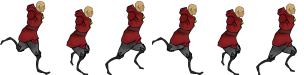
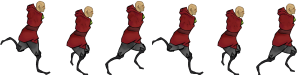
Atualizando correcao do braco pra esquerda

diff --git a/GameEngineSolution/GameEngine/Player.cpp b/GameEngineSolution/GameEngine/Player.cpp
@@ -93,24 +93,38 @@ void Player::Update(float dt) {
 
 void Player::Render() {
 	auto& input = InputManager::GetInstance();
+	Vec2 renderPosition;
+	auto centerPosition = box.GetCenter();
 	if (currentLayer == 0) {
 		if (input.IsKeyDown(SDLK_d) || input.IsKeyDown(SDLK_a)) {
 			UpdateSP(bodyRunSP);
+			UpdateConcertaArm(20,26,20);
 		} else {
 			UpdateSP(bodySP);
+			UpdateConcertaArm(40, 28,-5);
 		}
+		actualSP.Render(box.GetWorldRenderPosition(), 0, movedLeft, Camera::Zoom); 
+		printf("%f \n", cannonAngle);
+		renderPosition.X = centerPosition.X -concertaX-concertaLeft - Camera::pos.X;
+		renderPosition.Y = centerPosition.Y -concertaY - Camera::pos.Y;
+		armSp.Render(renderPosition, cannonAngle, false, Camera::Zoom);
+		
 	}
 	if (currentLayer == 1) {
 		UpdateSP(bodySP);
+		actualSP.Render(box.GetWorldRenderPosition(), 0, movedLeft, Camera::Zoom);
 	}
-	actualSP.Render(box.GetWorldRenderPosition(), 0, movedLeft, Camera::Zoom);
-	auto centerPosition = box.GetCenter();
+	
 
-	Vec2 renderPosition;
-	renderPosition.X = centerPosition.X - armSp.GetWidth()/1.8  - Camera::pos.X;
-	renderPosition.Y = centerPosition.Y - armSp.GetHeight()*2 - Camera::pos.Y;
-
-	armSp.Render(renderPosition, cannonAngle, false, Camera::Zoom);
+	
+}
+void Player::UpdateConcertaArm(int correcaoX, int correcaoY,int correcaoLeft) {
+	concertaX = correcaoX;
+	concertaY = correcaoY;
+	concertaLeft = 0;
+	if (movedLeft) {
+		concertaLeft = correcaoLeft;
+	}
 }
 
 bool Player::IsDead() {
@@ -262,6 +276,7 @@ void Player::Move(float dt){
 		}
 	}
 }
+
 void Player::UpdateSpeedStairs(InputManager& input) {
 	if (input.IsKeyDown(SDLK_w)) {
 		speedStairs.Y = -SpeedLimit / 2;

diff --git a/GameEngineSolution/GameEngine/Player.h b/GameEngineSolution/GameEngine/Player.h
@@ -48,6 +48,11 @@ class Player : public GameObject {
 		float getInertialBulletSpeed();
 		void takeDamage(int damage);
 		void Move(float dt);
+		void UpdateConcertaArm(int correcaoX,int correcaoY,int correcaoLeft);
+		int concertaX;
+		int concertaY;
+		int concertaLeft;
+
 
 		void UpdateSpeedStairs(InputManager& input);
 		void CenterOnCurrentTile();
